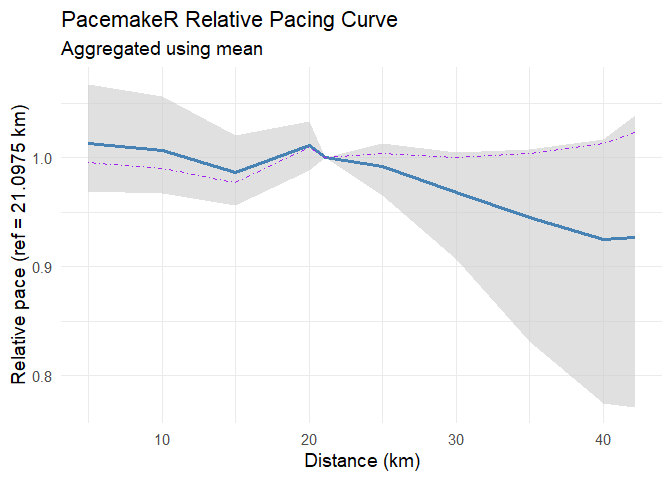
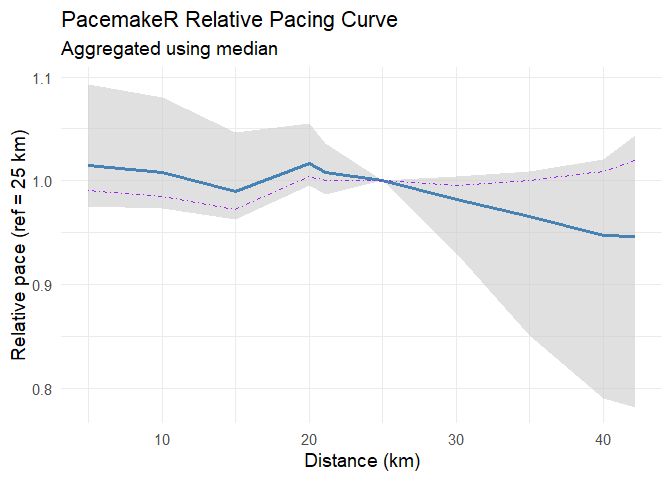
Finalizing the README and adding a short Case Study Analysis

diff --git a/README.md b/README.md
@@ -89,6 +89,33 @@ grouping by runner, ordering splits, and differencing successive times
 into segment paces. This is the data-manipulation backbone everything
 downstream relies on.
 
+    #> S7    (0.2.1 -> 0.2.2) [CRAN]
+    #> dplyr (1.2.0 -> 1.2.1) [CRAN]
+    #> package 'S7' successfully unpacked and MD5 sums checked
+    #> package 'dplyr' successfully unpacked and MD5 sums checked
+    #> 
+    #> The downloaded binary packages are in
+    #>  C:\Users\Julia\AppData\Local\Temp\Rtmpq2qn1k\downloaded_packages
+    #> ── R CMD build ─────────────────────────────────────────────────────────────────
+    #>       ✔  checking for file 'C:\Users\Julia\AppData\Local\Temp\Rtmpq2qn1k\remotes9d8c54c488f\Runandecon-PacemakeR-39f7b9f/DESCRIPTION' (1s)
+    #>       ─  preparing 'PacemakeR':
+    #>    checking DESCRIPTION meta-information ...  ✔  checking DESCRIPTION meta-information
+    #>       ─  checking for LF line-endings in source and make files and shell scripts (855ms)
+    #>   ─  checking for empty or unneeded directories
+    #>        NB: this package now depends on R (>= 3.5.0)
+    #>      WARNING: Added dependency on R >= 3.5.0 because serialized objects in
+    #>      serialize/load version 3 cannot be read in older versions of R.
+    #>      File(s) containing such objects:
+    #>        'PacemakeR/data/London_Marathon_2026.rda'
+    #>      NB: this package now depends on R (>=        NB: this package now depends on R (>= 4.1.0)
+    #>      WARNING: Added dependency on R >= 4.1.0 because package code uses the
+    #>      pipe |> or function shorthand \(...) syntax added in R 4.1.0.
+    #>      File(s) using such syntax:
+    #>        'processing.R'
+    #> ─  building 'PacemakeR_0.1.0.tar.gz'
+    #>      
+    #> 
+
 ``` r
 data("London_Marathon_2026")
 head(London_Marathon_2026)
@@ -199,10 +226,12 @@ see is computed once and read off it on demand.
 
 ``` r
 london <- pacemaker(London_Marathon_2026, relative = 21.0975)
+class(london)
+#> [1] "pacemaker"
 ```
 
 ``` r
-pacemaker_print(london)
+print(london)
 #> <pacemaker> pacing analysis
 #>   Reference split : 21.0975 km
 #>   Runners used    : 6027
@@ -219,7 +248,7 @@ pacemaker_print(london)
 #>   35.0000    0.945 -0.024     1.004
 #>   40.0000    0.925 -0.020     1.013
 #>   42.1950    0.927  0.001     1.023
-pacemaker_plot(london)
+plot(london)
 ```
 
 <img src="man/figures/README-curve-plot-1.png" alt="" width="100%" />
@@ -241,13 +270,13 @@ how far ahead the negative-split strategy puts you, expressed in units a
 runner cares about.
 
 ``` r
-pacemaker_plot(london, "gain")                                   # advantage in metres
+plot(london, "gain")                                   # advantage in metres
 ```
 
 <img src="man/figures/README-gain-1.png" alt="" width="100%" />
 
 ``` r
-pacemaker_plot(london, "gain", unit = "time", pace_sec = 300)    # same advantage, in seconds
+plot(london, "gain", unit = "time", pace_sec = 255)    # same advantage, in seconds
 ```
 
 <img src="man/figures/README-gain-time-1.png" alt="" width="100%" />